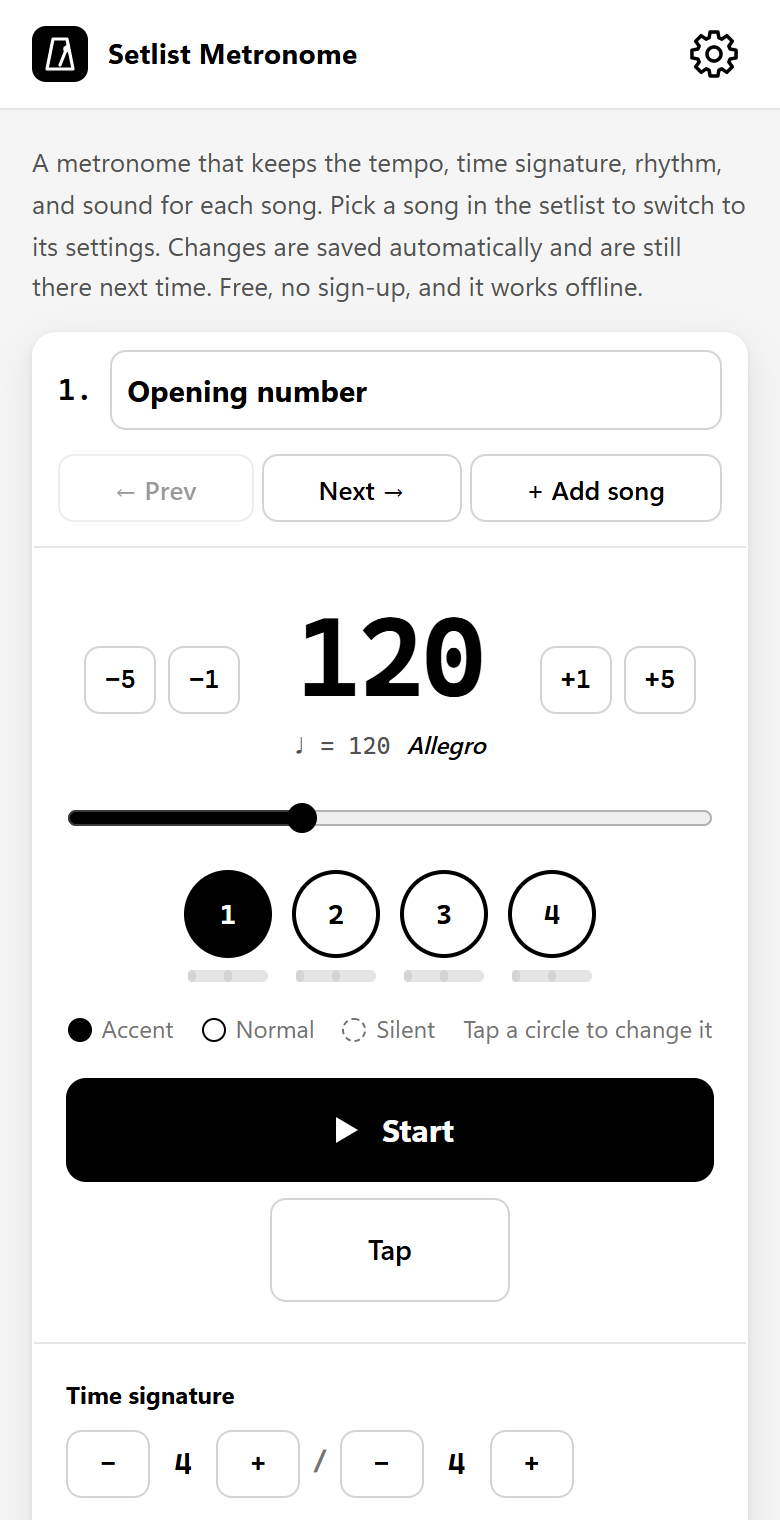
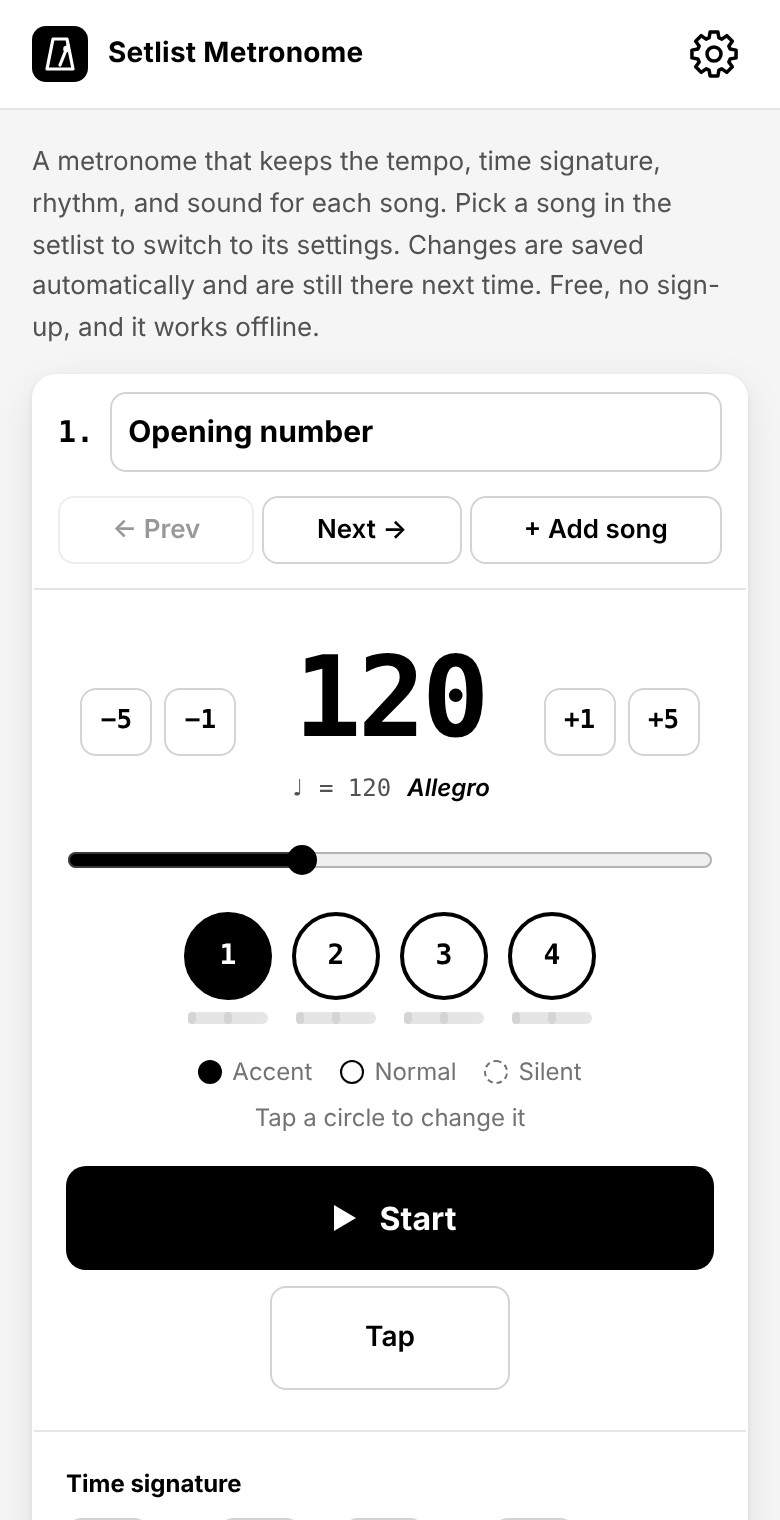
タイトル下の説明を改行しない・セットリストの曲順を枠の外に出す (#3)
* PC 版のタイトル下の説明を文ごとに改行しない

Claude-Session: https://claude.ai/code/session_01W9UzpwS44o55T9J3hgcSUb

* ガイドの画面写真を撮り直す

Claude-Session: https://claude.ai/code/session_01W9UzpwS44o55T9J3hgcSUb

* セットリストの曲順を曲の枠の外に出す

並べ替えたときに、数字は動かず曲の枠だけが入れ替わるようにする。
ガイドの画面写真を撮り直し、画像の高さの変化を記事に反映する。

Claude-Session: https://claude.ai/code/session_01W9UzpwS44o55T9J3hgcSUb

---------

diff --git a/public/setlistmetronome/ja/index.html b/public/setlistmetronome/ja/index.html
@@ -96,8 +96,6 @@
     .panel-head { display: flex; justify-content: space-between; align-items: center; gap: 8px 12px; min-height: 40px; padding: 0 6px 0 16px; border-bottom: 1px solid var(--line); font-size: 13px; font-weight: 700; flex-wrap: wrap; }
     .panel-body { padding: 14px 16px 18px; display: flex; flex-direction: column; gap: 18px; }
     .intro { margin: 0; color: var(--muted); font-size: 13px; }
-    /* On a computer each sentence gets its own line; on a phone the text just wraps */
-    @media (min-width: 901px) { .intro span { display: block; } }
     .foot { color: var(--subtle); font-size: 12px; display: flex; align-items: center; gap: 6px; flex-wrap: wrap; }
     .foot svg { flex: 0 0 auto; }
 
@@ -125,12 +123,14 @@
 
     /* Setlist */
     .songs { list-style: none; margin: 0; padding: 0; display: flex; flex-direction: column; gap: 6px; }
-    .song { appearance: none; width: 100%; text-align: left; border: 1px solid var(--line-strong); border-radius: var(--radius); background: var(--paper); color: var(--ink); padding: 8px 12px; cursor: pointer; display: grid; grid-template-columns: auto minmax(0, 1fr); gap: 0 10px; align-items: center; transition: background-color .12s, border-color .12s; }
-    .song .no { font-family: var(--mono); font-size: 12px; color: var(--subtle); grid-row: span 2; min-width: 2ch; text-align: right; }
+    /* The number sits outside the card so it stays in place when songs are reordered */
+    .songs li { display: flex; align-items: center; gap: 8px; }
+    .songs .no { flex: none; font-family: var(--mono); font-size: 12px; color: var(--subtle); min-width: 2ch; text-align: right; font-variant-numeric: tabular-nums; }
+    .song { appearance: none; flex: 1; min-width: 0; text-align: left; border: 1px solid var(--line-strong); border-radius: var(--radius); background: var(--paper); color: var(--ink); padding: 8px 12px; cursor: pointer; display: grid; grid-template-columns: minmax(0, 1fr); transition: background-color .12s, border-color .12s; }
     .song .nm { font-weight: 700; font-size: 13px; overflow: hidden; text-overflow: ellipsis; white-space: nowrap; min-height: 1.6em; }
     .song .mt { font-family: var(--mono); font-size: 11px; color: var(--subtle); white-space: nowrap; overflow: hidden; text-overflow: ellipsis; }
     .song[aria-current="true"] { background: var(--ink); border-color: var(--ink); color: var(--paper); }
-    .song[aria-current="true"] .no, .song[aria-current="true"] .mt { color: var(--line-strong); }
+    .song[aria-current="true"] .mt { color: var(--line-strong); }
     @media (hover: hover) { .song:hover { border-color: var(--ink); } .song:not([aria-current="true"]):hover { background: var(--hover-fill); } }
     .list-actions { display: flex; flex-wrap: wrap; gap: 6px; border-top: 1px solid var(--line); padding-top: 14px; }
     .list-actions .grow { flex: 1 1 100%; }
@@ -239,7 +239,7 @@
   </header>
 
   <main class="canvas">
-    <p class="intro" data-i18n-html="intro"><span>曲ごとにテンポ・拍子・リズム・音色を保存しておけるメトロノームです。</span> <span>セットリストで曲を選ぶと、その設定に切り替わります。</span> <span>変更は自動で保存され、次に開いたときもそのまま残ります。</span> <span>無料・登録不要で、オフラインでも使えます。</span></p>
+    <p class="intro" data-i18n="intro">曲ごとにテンポ・拍子・リズム・音色を保存しておけるメトロノームです。セットリストで曲を選ぶと、その設定に切り替わります。変更は自動で保存され、次に開いたときもそのまま残ります。無料・登録不要で、オフラインでも使えます。</p>
     <div class="layout">
       <aside class="panel" aria-label="セットリスト" data-i18n-attr="aria-label:list">
         <div class="panel-head"><span data-i18n="list">セットリスト</span><span class="count" id="count"></span></div>
@@ -382,7 +382,7 @@
       const I18N = {
         en: {
           "settings": "Settings",
-          "intro": "<span>A metronome that keeps the tempo, time signature, rhythm, and sound for each song.</span> <span>Pick a song in the setlist to switch to its settings.</span> <span>Changes are saved automatically and are still there next time.</span> <span>Free, no sign-up, and it works offline.</span>",
+          "intro": "A metronome that keeps the tempo, time signature, rhythm, and sound for each song. Pick a song in the setlist to switch to its settings. Changes are saved automatically and are still there next time. Free, no sign-up, and it works offline.",
           "list": "Setlist",
           "metronome": "Metronome",
           "count": "{n} songs",
@@ -459,7 +459,7 @@
         },
         ja: {
           "settings": "設定",
-          "intro": "<span>曲ごとにテンポ・拍子・リズム・音色を保存しておけるメトロノームです。</span> <span>セットリストで曲を選ぶと、その設定に切り替わります。</span> <span>変更は自動で保存され、次に開いたときもそのまま残ります。</span> <span>無料・登録不要で、オフラインでも使えます。</span>",
+          "intro": "曲ごとにテンポ・拍子・リズム・音色を保存しておけるメトロノームです。セットリストで曲を選ぶと、その設定に切り替わります。変更は自動で保存され、次に開いたときもそのまま残ります。無料・登録不要で、オフラインでも使えます。",
           "list": "セットリスト",
           "metronome": "メトロノーム",
           "count": "{n}曲",
@@ -782,9 +782,10 @@
           const no = document.createElement("span"); no.className = "no"; no.textContent = i + 1;
           const nm = document.createElement("span"); nm.className = "nm"; nm.textContent = p.name;
           const mt = document.createElement("span"); mt.className = "mt"; mt.textContent = metaText(p);
-          b.append(no, nm, mt);
+          no.setAttribute("aria-hidden", "true");
+          b.append(nm, mt);
           b.onclick = () => select(p.id);
-          li.appendChild(b); box.appendChild(li);
+          li.append(no, b); box.appendChild(li);
         });
         const idx = store.presets.findIndex((p) => p.id === store.current), n = store.presets.length;
         $("count").textContent = n === 1 ? t("count.one") : t("count", { n: n });

diff --git a/public/setlistmetronome/index.html b/public/setlistmetronome/index.html
@@ -94,8 +94,6 @@
     .panel-head { display: flex; justify-content: space-between; align-items: center; gap: 8px 12px; min-height: 40px; padding: 0 6px 0 16px; border-bottom: 1px solid var(--line); font-size: 13px; font-weight: 700; flex-wrap: wrap; }
     .panel-body { padding: 14px 16px 18px; display: flex; flex-direction: column; gap: 18px; }
     .intro { margin: 0; color: var(--muted); font-size: 13px; }
-    /* On a computer each sentence gets its own line; on a phone the text just wraps */
-    @media (min-width: 901px) { .intro span { display: block; } }
     .foot { color: var(--subtle); font-size: 12px; display: flex; align-items: center; gap: 6px; flex-wrap: wrap; }
     .foot svg { flex: 0 0 auto; }
 
@@ -123,12 +121,14 @@
 
     /* Setlist */
     .songs { list-style: none; margin: 0; padding: 0; display: flex; flex-direction: column; gap: 6px; }
-    .song { appearance: none; width: 100%; text-align: left; border: 1px solid var(--line-strong); border-radius: var(--radius); background: var(--paper); color: var(--ink); padding: 8px 12px; cursor: pointer; display: grid; grid-template-columns: auto minmax(0, 1fr); gap: 0 10px; align-items: center; transition: background-color .12s, border-color .12s; }
-    .song .no { font-family: var(--mono); font-size: 12px; color: var(--subtle); grid-row: span 2; min-width: 2ch; text-align: right; }
+    /* The number sits outside the card so it stays in place when songs are reordered */
+    .songs li { display: flex; align-items: center; gap: 8px; }
+    .songs .no { flex: none; font-family: var(--mono); font-size: 12px; color: var(--subtle); min-width: 2ch; text-align: right; font-variant-numeric: tabular-nums; }
+    .song { appearance: none; flex: 1; min-width: 0; text-align: left; border: 1px solid var(--line-strong); border-radius: var(--radius); background: var(--paper); color: var(--ink); padding: 8px 12px; cursor: pointer; display: grid; grid-template-columns: minmax(0, 1fr); transition: background-color .12s, border-color .12s; }
     .song .nm { font-weight: 700; font-size: 13px; overflow: hidden; text-overflow: ellipsis; white-space: nowrap; min-height: 1.6em; }
     .song .mt { font-family: var(--mono); font-size: 11px; color: var(--subtle); white-space: nowrap; overflow: hidden; text-overflow: ellipsis; }
     .song[aria-current="true"] { background: var(--ink); border-color: var(--ink); color: var(--paper); }
-    .song[aria-current="true"] .no, .song[aria-current="true"] .mt { color: var(--line-strong); }
+    .song[aria-current="true"] .mt { color: var(--line-strong); }
     @media (hover: hover) { .song:hover { border-color: var(--ink); } .song:not([aria-current="true"]):hover { background: var(--hover-fill); } }
     .list-actions { display: flex; flex-wrap: wrap; gap: 6px; border-top: 1px solid var(--line); padding-top: 14px; }
     .list-actions .grow { flex: 1 1 100%; }
@@ -237,7 +237,7 @@
   </header>
 
   <main class="canvas">
-    <p class="intro" data-i18n-html="intro"><span>A metronome that keeps the tempo, time signature, rhythm, and sound for each song.</span> <span>Pick a song in the setlist to switch to its settings.</span> <span>Changes are saved automatically and are still there next time.</span> <span>Free, no sign-up, and it works offline.</span></p>
+    <p class="intro" data-i18n="intro">A metronome that keeps the tempo, time signature, rhythm, and sound for each song. Pick a song in the setlist to switch to its settings. Changes are saved automatically and are still there next time. Free, no sign-up, and it works offline.</p>
     <div class="layout">
       <aside class="panel" aria-label="Setlist" data-i18n-attr="aria-label:list">
         <div class="panel-head"><span data-i18n="list">Setlist</span><span class="count" id="count"></span></div>
@@ -384,7 +384,7 @@
       const I18N = {
         en: {
           "settings": "Settings",
-          "intro": "<span>A metronome that keeps the tempo, time signature, rhythm, and sound for each song.</span> <span>Pick a song in the setlist to switch to its settings.</span> <span>Changes are saved automatically and are still there next time.</span> <span>Free, no sign-up, and it works offline.</span>",
+          "intro": "A metronome that keeps the tempo, time signature, rhythm, and sound for each song. Pick a song in the setlist to switch to its settings. Changes are saved automatically and are still there next time. Free, no sign-up, and it works offline.",
           "list": "Setlist",
           "metronome": "Metronome",
           "count": "{n} songs",
@@ -461,7 +461,7 @@
         },
         ja: {
           "settings": "設定",
-          "intro": "<span>曲ごとにテンポ・拍子・リズム・音色を保存しておけるメトロノームです。</span> <span>セットリストで曲を選ぶと、その設定に切り替わります。</span> <span>変更は自動で保存され、次に開いたときもそのまま残ります。</span> <span>無料・登録不要で、オフラインでも使えます。</span>",
+          "intro": "曲ごとにテンポ・拍子・リズム・音色を保存しておけるメトロノームです。セットリストで曲を選ぶと、その設定に切り替わります。変更は自動で保存され、次に開いたときもそのまま残ります。無料・登録不要で、オフラインでも使えます。",
           "list": "セットリスト",
           "metronome": "メトロノーム",
           "count": "{n}曲",
@@ -784,9 +784,10 @@
           const no = document.createElement("span"); no.className = "no"; no.textContent = i + 1;
           const nm = document.createElement("span"); nm.className = "nm"; nm.textContent = p.name;
           const mt = document.createElement("span"); mt.className = "mt"; mt.textContent = metaText(p);
-          b.append(no, nm, mt);
+          no.setAttribute("aria-hidden", "true");
+          b.append(nm, mt);
           b.onclick = () => select(p.id);
-          li.appendChild(b); box.appendChild(li);
+          li.append(no, b); box.appendChild(li);
         });
         const idx = store.presets.findIndex((p) => p.id === store.current), n = store.presets.length;
         $("count").textContent = n === 1 ? t("count.one") : t("count", { n: n });

diff --git a/public/setlistmetronome/ja/guide/index.html b/public/setlistmetronome/ja/guide/index.html
@@ -206,7 +206,7 @@
 
 <h2 id="screen">画面の見方</h2>
 <figure class="shot">
-  <a href="/setlistmetronome/images/guide/ja-overview.png"><img src="/setlistmetronome/images/guide/ja-overview.png" alt="パソコンで開いた Setlist Metronome。左に 5 曲のセットリスト、右に選択中の曲のメトロノーム（120 BPM、4 つの拍の丸、スタートボタン、その下に設定）。操作部分に 1〜12 の番号が付いている。" width="1200" height="918" loading="lazy" decoding="async"></a>
+  <a href="/setlistmetronome/images/guide/ja-overview.png"><img src="/setlistmetronome/images/guide/ja-overview.png" alt="パソコンで開いた Setlist Metronome。左に 5 曲のセットリスト、右に選択中の曲のメトロノーム（120 BPM、4 つの拍の丸、スタートボタン、その下に設定）。操作部分に 1〜12 の番号が付いている。" width="1200" height="900" loading="lazy" decoding="async"></a>
   <figcaption>番号は下の一覧と対応しています。画像を押すと拡大します。</figcaption>
 </figure>
 <ol>

diff --git a/public/setlistmetronome/guide/index.html b/public/setlistmetronome/guide/index.html
@@ -206,7 +206,7 @@
 
 <h2 id="screen">The screen at a glance</h2>
 <figure class="shot">
-  <a href="/setlistmetronome/images/guide/en-overview.png"><img src="/setlistmetronome/images/guide/en-overview.png" alt="Setlist Metronome on a computer: a setlist of five songs on the left, and the metronome for the selected song on the right with 120 BPM, four beat circles, the Start button, and the settings below. Numbers 1 to 12 mark the controls." width="1200" height="918" loading="lazy" decoding="async"></a>
+  <a href="/setlistmetronome/images/guide/en-overview.png"><img src="/setlistmetronome/images/guide/en-overview.png" alt="Setlist Metronome on a computer: a setlist of five songs on the left, and the metronome for the selected song on the right with 120 BPM, four beat circles, the Start button, and the settings below. Numbers 1 to 12 mark the controls." width="1200" height="900" loading="lazy" decoding="async"></a>
   <figcaption>The numbers match the list below. Tap the image to enlarge it.</figcaption>
 </figure>
 <ol>

diff --git a/docs/article-review.md b/docs/article-review.md
@@ -29,6 +29,12 @@ PR を出すと Cloudflare のプレビュー URL ができるので、そこで
 | H | 使い方ガイド | 画面写真の番号と一覧の対応、ホーム画面への追加手順の書き方（「アプリをインストール」はブラウザによって表記が違う） |
 | I | 全体 | 日本語の「ビート」（アプリの項目名）と記事中の「リズム」の使い分け |
 
+## 2026-10-20（使い方ガイドの画面写真の撮り直し）特に見てほしいところ
+
+| # | 記事 | 確認してほしい点 |
+|---|---|---|
+| J | 使い方ガイド | パソコンの画面写真（en / ja）を撮り直した。タイトル下の説明が文ごとに改行されなくなったことと、セットリストの曲順の数字が枠の外に出たことが写真に出ているか。番号 1〜12 の位置がずれていないか |
+
 ## 確認が終わったら
 
 1. 直す点があれば Claude に伝える（Claude が直して PR を更新 → もう一度確認）。
